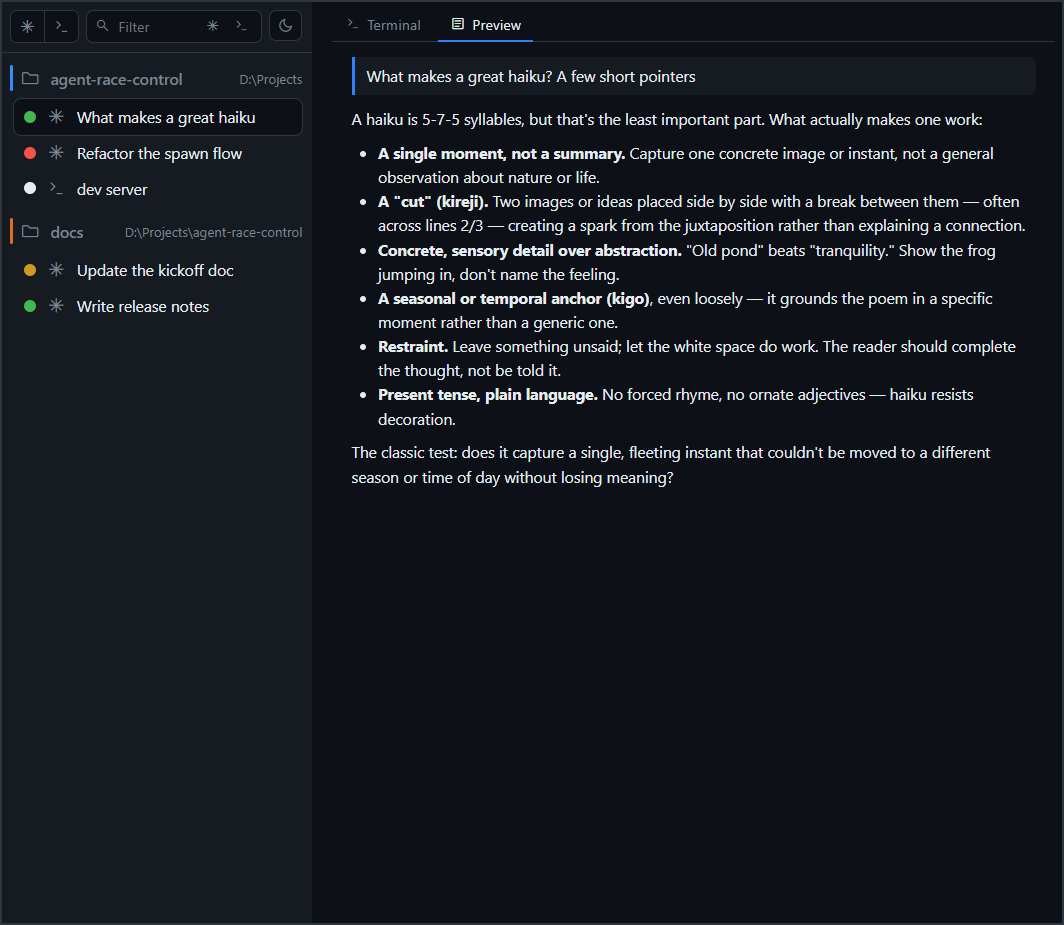
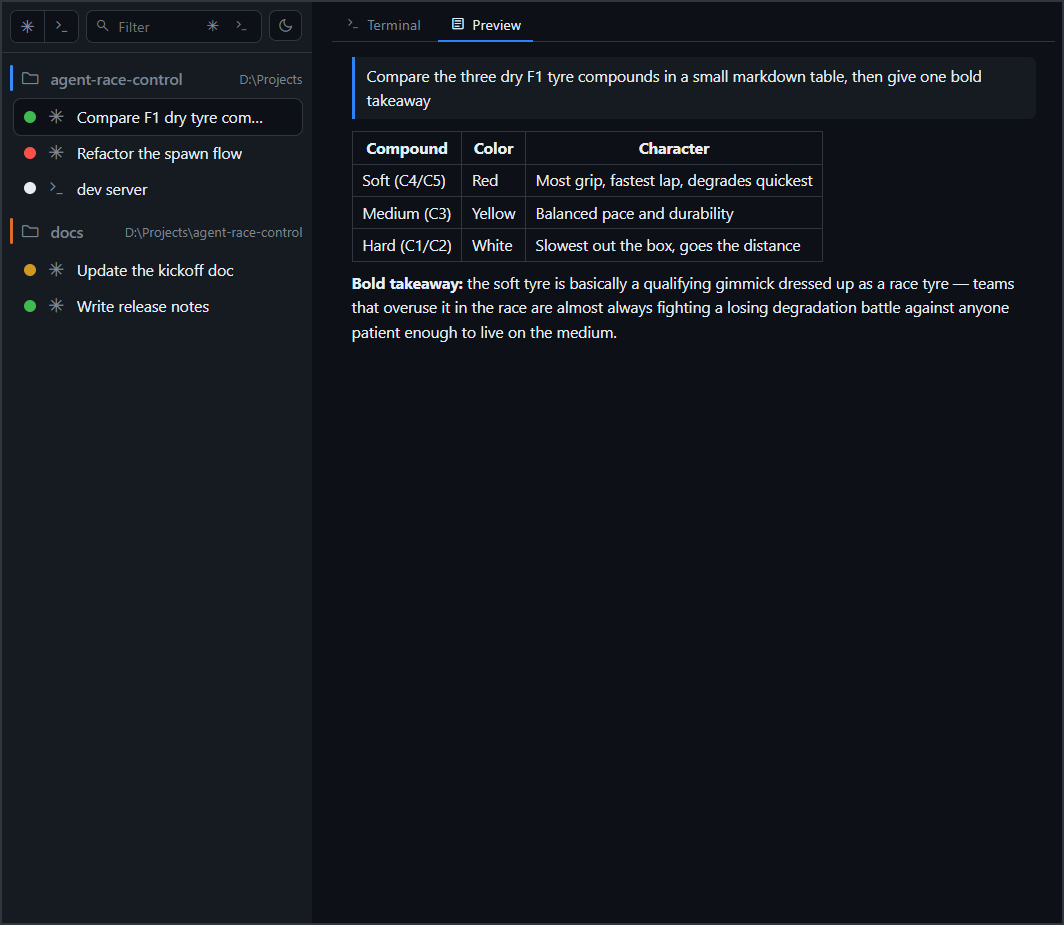
The hero conversation becomes the tyre-compound table
One prompt, on brand: compare the three dry F1 compounds in a markdown
table plus a bold takeaway — a box-drawn table in the terminal, a
bordered one in the preview. First roll produced an invalid table
(claude dropped the header's label column, so neither renderer took it
as one); rerolled clean.

Claude-Session: https://claude.ai/code/session_0128SsZBie9kmUn12s5mMvoa

Changed region(s): [[0.3102, 0.0605, 0.9615, 0.5449], [0.062, 0.1211, 0.2481, 0.1514], [0.8374, 0.4238, 0.8994, 0.4541]]

diff --git a/docs/agent-race-control-kickoff.md b/docs/agent-race-control-kickoff.md
@@ -152,7 +152,7 @@ Automated doc screenshots that stage the scene through channels the app already 
 - **Blessed deviation:** main honors an **`ARC_USERDATA`** env override (dev-only — ignored when packaged) so the harness uses a scratch profile (`.screenshot-profile/`, gitignored) and never touches the real tower. Set before the single-instance lock, whose identity is the userData path — a harness run coexists with the real app.
 - **Sessions are real, near-free:** shells cost nothing; background "fake" Claude rows are real claudes idling at their prompt (zero tokens). Rows get named via the real rename flow (idle → `/rename` injection, optimistic title shows); a first-run trust dialog is answered with Enter, exactly as a user would.
 - **Traffic-light variety is staged through the observability channel:** the harness reads `arc-hooks.json` from the scratch userData and POSTs synthetic hook events (running/waiting) for background rows — the app's observations are staged, the app itself is never faked.
-- **The hero session is genuinely real:** the harness types a single scripted prompt on the craft of the haiku ("What makes a great haiku? A few short pointers" — artistic over dense, sized so the whole session including Claude Code's welcome logo stays in frame while the pointers give the Preview real markdown; prompt script iterated with Carlos 2026-07-13), waiting on that row's `.dot.idle` selector (status doubles as the completion signal). Reruns `--resume` the pinned session ids (stable in `.screenshot-profile/ids.json`) and spend nothing; delete the profile dir to restage from scratch (required after editing the prompt script).
+- **The hero session is genuinely real:** the harness types a single scripted prompt comparing F1 tyre compounds in a markdown table (on-brand, sized so the whole session including Claude Code's welcome logo stays in frame while the table + bold give the Preview real markdown; prompt script iterated with Carlos 2026-07-13/14), waiting on that row's `.dot.idle` selector (status doubles as the completion signal). Reruns `--resume` the pinned session ids (stable in `.screenshot-profile/ids.json`) and spend nothing; delete the profile dir to restage from scratch (required after editing the prompt script).
 - **Accepted:** a few small prompts per fresh run; transcript droppings under `~/.claude/projects/` for staging cwds (hermetic `CLAUDE_CONFIG_DIR` rejected — fresh config dir demands login).
 
 ## Definition of done (v1)